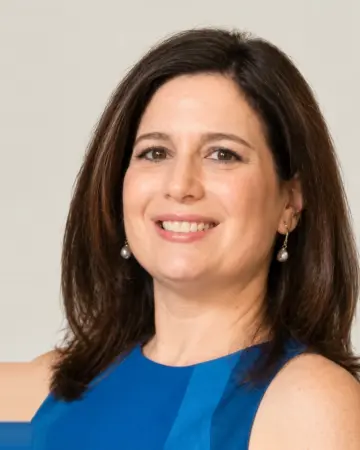
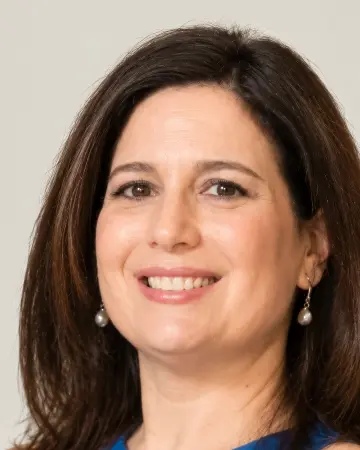
Guess Who: level every face and give all the same eye distance and position
Claude-Session: https://claude.ai/code/session_01HL3H2DGkGFeWG8AtvicfmJ

diff --git a/public/guesswho.js b/public/guesswho.js
@@ -2,7 +2,7 @@
 // Faces are numbered photos in /guesswho/NN.webp. Each lists only features that
 // are clearly visible, so the computer can answer questions honestly. To add a
 // face, add the photo and one entry here; set `name` to show a name.
-const F = (id, tags, name) => ({ id, tags: new Set(tags.split(' ').filter(Boolean)), name: name || '#' + id, src: '/guesswho/' + String(id).padStart(2, '0') + '.webp?v=2' });
+const F = (id, tags, name) => ({ id, tags: new Set(tags.split(' ').filter(Boolean)), name: name || '#' + id, src: '/guesswho/' + String(id).padStart(2, '0') + '.webp?v=3' });
 const FACES = [
   F(1, 'teeth necklace blonde', 'Sue'), F(2, 'earrings curly grey', 'Grams'), F(3, 'teeth earrings blue', 'Susan'),
   F(4, 'hat sunglasses eyewear facialhair blue', 'Karim'), F(5, 'hat sunglasses eyewear teeth', 'Luca'), F(6, 'facialhair', 'Casey'),

diff --git a/public/guesswho.html b/public/guesswho.html
@@ -11,6 +11,6 @@
 <body>
   <header><a class="back" href="/">‹ Party</a><h1>Guess Who?</h1><span></span></header>
   <main id="app"></main>
-  <script src="/guesswho.js?v=crop" defer></script>
+  <script src="/guesswho.js?v=align" defer></script>
 </body>
 </html>
